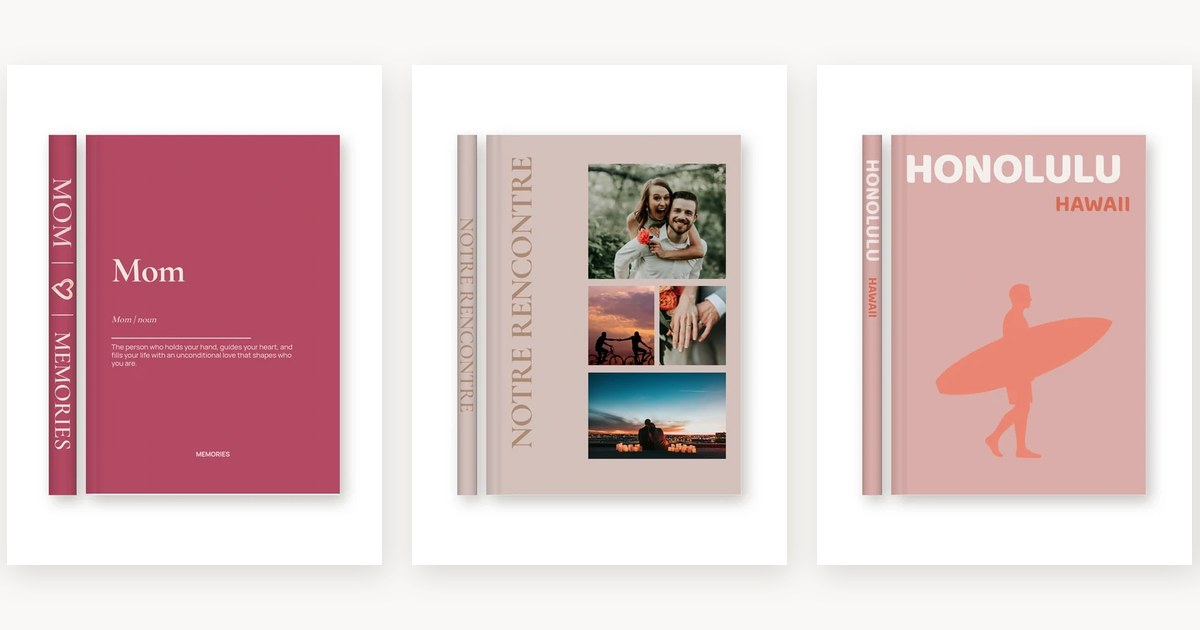
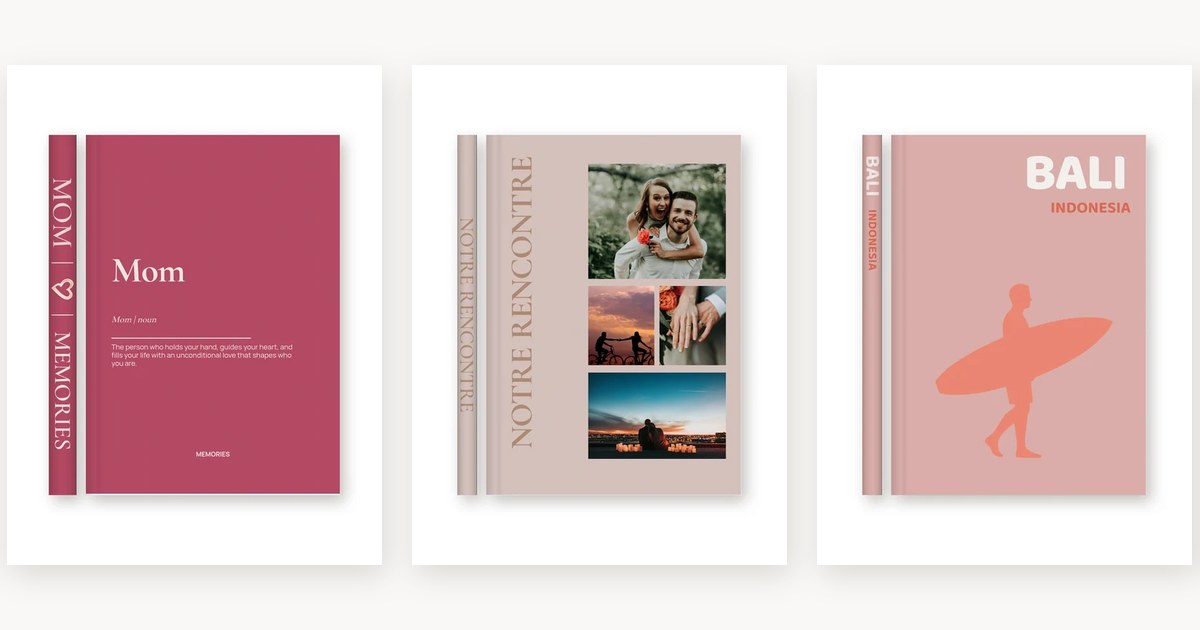
Travel template: Bali instead of Honolulu
Same cover (the surfer, the colors): the title becomes Bali and the
subtitle Indonesia (cover and spine), in a narrower title box so the short
word stays the size Honolulu was. The id stays travel-hawaii, for the
albums already made from it. Its preview picture and the site's sharing
picture (og-image, now ?v=3) are made again; the travel page and its texts
show Bali instead of Hawaii and of the Beirut cover that isn't offered yet.

Claude-Session: https://claude.ai/code/session_019iW3qNmH4N4x87DfLWtU9k

Changed region(s): [[0.7092, 0.2413, 0.9558, 0.4222], [0.7092, 0.4524, 0.74, 0.5127]]

diff --git a/frontend/src/lib/coverThemes.js b/frontend/src/lib/coverThemes.js
@@ -115,10 +115,13 @@ export const COVER_THEMES = [
         },
       },
       {
+        // Was "Honolulu, Hawaii": same cover (the surfer), now Bali — a
+        // trip far more of our customers have made. The id stays, for the
+        // albums already made from it.
         id: "travel-hawaii",
-        name: "Honolulu, Hawaii",
+        name: "Bali, Indonesia",
         landingImage: "/theme-covers/travel-hawaii.webp",
-        title: "Honolulu",
+        title: "Bali",
         cover: {
           bg_color: "#D9ACA8",
           accent_color: "#D96A54",
@@ -126,8 +129,10 @@ export const COVER_THEMES = [
           title_font: BALOO,
           title_font_weight: "800",
           title_font_size: 66,
-          title_x: 0.05, title_y: 0.04, title_w: 0.89, title_h: 0.18,
-          spine_subtitle: "Hawaii",
+          // Bali is a short word: a narrower box keeps it the size Honolulu was
+          // (the title fills its box's width), above the subtitle on the right.
+          title_x: 0.52, title_y: 0.04, title_w: 0.42, title_h: 0.18,
+          spine_subtitle: "Indonesia",
           spine_subtitle_color: "#D96A54",
           spine_subtitle_font: BALOO,
           spine_subtitle_weight: "700",
@@ -135,7 +140,7 @@ export const COVER_THEMES = [
           spine_title_font: BALOO,
           extra_items: [
             iconItem(TRAVEL_HAWAII_ICON, "travel_hawaii", { x: 0.16, y: 0.405, w: 0.72, h: 0.5 }),
-            textItem("subtitle", "Hawaii", { role: "subtitle", x: 0.44, y: 0.22, w: 0.5, h: 0.08, font: BALOO, font_weight: "700", font_size: 28, color: "#D96A54", text_align: "right" }),
+            textItem("subtitle", "Indonesia", { role: "subtitle", x: 0.44, y: 0.22, w: 0.5, h: 0.08, font: BALOO, font_weight: "700", font_size: 28, color: "#D96A54", text_align: "right" }),
           ],
         },
       },

diff --git a/frontend/index.html b/frontend/index.html
@@ -18,7 +18,7 @@
         <meta property="og:description" content="Turn your photos into a beautifully designed printed photo book, laid out for you in minutes." />
         <meta property="og:type" content="website" />
         <meta property="og:url" content="%SITE_URL%/" />
-        <meta property="og:image" content="%SITE_URL%/og-image.jpg?v=2" />
+        <meta property="og:image" content="%SITE_URL%/og-image.jpg?v=3" />
         <meta property="og:image:width" content="1200" />
         <meta property="og:image:height" content="630" />
         <meta name="twitter:card" content="summary_large_image" />

diff --git a/frontend/src/lib/occasions.js b/frontend/src/lib/occasions.js
@@ -11,7 +11,7 @@ export const OCCASIONS = {
       ["/theme-covers/travel-sicily.webp", "Sicily"],
       ["/theme-covers/travel-paros.webp", "Paros"],
       ["/theme-covers/travel-morocco.webp", "Morocco"],
-      ["/theme-covers/travel-beirut.webp", "Beirut"],
+      ["/theme-covers/travel-hawaii.webp", "Bali"],
     ],
   },
   couple: {
